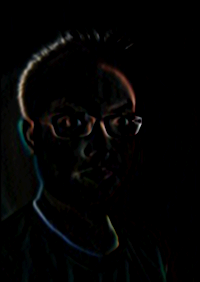
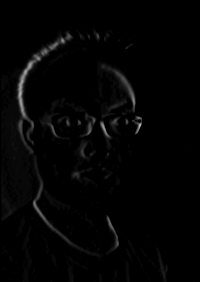
update

diff --git a/hw1/hw1.py b/hw1/hw1.py
@@ -10,6 +10,7 @@ def gaussian_blur(sigma):
 	return blur
 
 def img_derivative(image, x, y, filename):
+	gray_image = cv2.cvtColor(image, cv2.COLOR_BGR2GRAY)
 	kernel = np.zeros((3,3), np.float32);
 	if x == 1:
 		kernel[1,0] = 0.5
@@ -17,7 +18,7 @@ def img_derivative(image, x, y, filename):
 	if y == 1:
 		kernel[0,1] = 0.5
 		kernel[2,1] = -0.5
-	dst = cv2.filter2D(image, -1, kernel)*4
+	dst = cv2.filter2D(gray_image, -1, kernel)*4
 	cv2.imwrite(filename + '_d_' + str(x) + '_'  + str(y) + '.png', dst)
 	return dst;
 

diff --git a/hw1/README.md b/hw1/README.md
@@ -1,6 +1,39 @@
 CS682 HW1
 =========
-
+ 
 Original Image
 --------------
 ![](https://raw2.github.com/xizhonghua/CS682/master/hw1/me.jpg)
+
+Guassian Blur
+-------------
+sigma = 1
+![](https://raw2.github.com/xizhonghua/CS682/master/hw1/gaussion_1.png)
+
+sigma = 2
+![](https://raw2.github.com/xizhonghua/CS682/master/hw1/gaussion_2.png)
+
+sigma = 3
+![](https://raw2.github.com/xizhonghua/CS682/master/hw1/gaussion_3.png)
+
+Image Derivative
+----------------
+Original Image
+
+x = ![](https://raw2.github.com/xizhonghua/CS682/master/hw1/org_d_1_0.png)
+y = ![](https://raw2.github.com/xizhonghua/CS682/master/hw1/org_d_0_1.png)
+
+Guassuian Blur Sigma = 1
+
+x = ![](https://raw2.github.com/xizhonghua/CS682/master/hw1/gb_1_d_1_0.png)
+y = ![](https://raw2.github.com/xizhonghua/CS682/master/hw1/gb_1_d_0_1.png)
+
+Guassuian Blur Sigma = 2
+
+x = ![](https://raw2.github.com/xizhonghua/CS682/master/hw1/gb_2_d_1_0.png)
+y = ![](https://raw2.github.com/xizhonghua/CS682/master/hw1/gb_2_d_0_1.png)
+
+Guassuian Blur Sigma = 3
+
+x = ![](https://raw2.github.com/xizhonghua/CS682/master/hw1/gb_3_d_1_0.png)
+y = ![](https://raw2.github.com/xizhonghua/CS682/master/hw1/gb_3_d_0_1.png)
